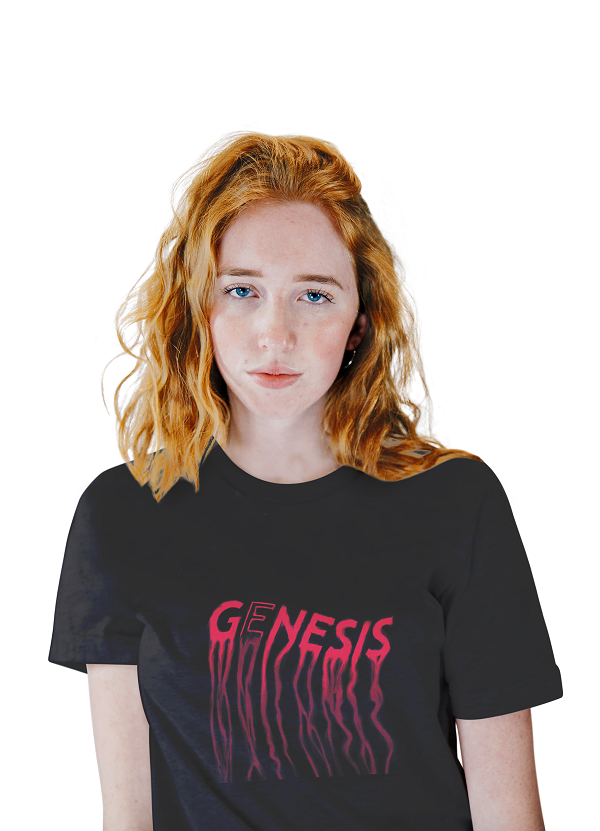
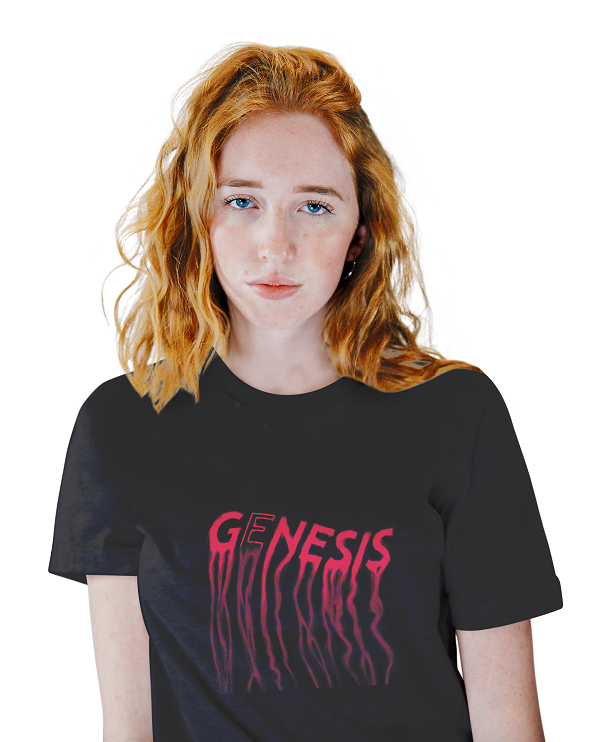
Reducción de espacios blancos de imágenes, hover y zoom en click. Estilo de botones.

diff --git a/html/productos.html b/html/productos.html
@@ -67,7 +67,12 @@
     <main>
         <div class="products">
             <div class="product-item">
-                <img src="../imagen/t-shirt-model-01.png" alt="top-newarrivals" >
+                <div class="top-newarrivals">
+                    <img src="../imagen/t-shirt-model-01.png" alt="top-newarrivals" >
+                    <div class="overlay">
+                        <div class="text">Click para hacer zoom</div>
+                    </div>
+                </div>
                 <div>
                     <span>T-SHIRT GENESIS</span>
                     <select>
@@ -85,7 +90,12 @@
                 </div>
             </div>
             <div class="product-item">
-                <img src="../imagen/t-shirt-model-02.png" alt="top-newarrivals" >
+                <div class="top-newarrivals">
+                    <img src="../imagen/t-shirt-model-02.png" alt="top-newarrivals" >
+                    <div class="overlay">
+                        <div class="text">Click para hacer zoom</div>
+                    </div>
+                </div>
                 <div>
                     <span>T-SHIRT KALE</span>
                     <select>
@@ -103,7 +113,12 @@
                 </div>
             </div>
             <div class="product-item">
-                <img src="../imagen/t-shirt-model-03.png" alt="top-newarrivals" >
+                <div class="top-newarrivals">
+                    <img src="../imagen/t-shirt-model-03.png" alt="top-newarrivals" >
+                    <div class="overlay">
+                        <div class="text">Click para hacer zoom</div>
+                    </div>
+                </div>
                 <div>
                     <span>T-SHIRT MAGNUM</span>
                     <select>
@@ -121,7 +136,12 @@
                 </div>
             </div>
             <div class="product-item">
-                <img src="../imagen/t-shirt-model-04.png" alt="top-newarrivals" >
+                <div class="top-newarrivals">
+                    <img src="../imagen/t-shirt-model-04.png" alt="top-newarrivals" >
+                    <div class="overlay">
+                        <div class="text">Click para hacer zoom</div>
+                    </div>
+                </div>
                 <div>
                     <span>T-SHIRT TWO-SKULLS</span>
                     <select>

diff --git a/css/productos.css b/css/productos.css
@@ -17,14 +17,59 @@ main {
     padding-bottom: 40px;
 }
 
-.product-item div {
+.product-item div:not(.top-newarrivals) {
     padding-top: 5px;
     padding-bottom: 5px;
 }
 
-.product-item img {
+.product-item div.top-newarrivals {
+    position: relative;
+    overflow: hidden;
     width: 100%;
     max-width: 400px;
+    cursor: pointer;
+}
+
+.product-item img {
+    width: inherit;
+    max-width: inherit;
+    margin-bottom: -4px;
+}
+
+.product-item div.top-newarrivals:hover .overlay {
+    opacity: .5;
+}
+
+.product-item div.top-newarrivals:active .overlay {
+    opacity: 0;
+}
+
+.product-item div.top-newarrivals .overlay {
+    position: absolute;
+    top: 0;
+    bottom: 0;
+    left: 0;
+    right: 0;
+    height: 100%;
+    width: 100%;
+    opacity: 0;
+    transition: .5s ease;
+    background-color: black;
+}
+  
+.product-item div.top-newarrivals .text {
+    color: white;
+    font-size: 20px;
+    position: absolute;
+    top: 50%;
+    left: 50%;
+    transform: translate(-50%, -50%);
+    text-align: center;
+}
+
+.product-item div.top-newarrivals:active img {
+    transform: scale(2);
+    transform-origin: bottom;
 }
 
 .product-item input.buttonCarrito {
@@ -40,6 +85,7 @@ main {
 .product-item input.buttonCarrito:hover {
     background-color: rgb(184, 88, 88);
     color: whitesmoke;
+    box-shadow: 0 8px 12px 0 rgba(0,0,0,0.24),0 17px 50px 0 rgba(0,0,0,0.19)
 }
 
 .product-item input.buttonCantidad {
@@ -54,4 +100,10 @@ main {
     width: 55px;
     padding: 4px;
     border-radius: 4px;
+}
+
+@media only screen and (max-width:600px) {
+    .product-item div.top-newarrivals:hover .overlay {
+        opacity: 0;
+    }
 }

diff --git a/css/index.css b/css/index.css
@@ -15,7 +15,8 @@ body .body-wrapper {
 }
 
 .collection-new:hover {
-  opacity: 0.7;
+  opacity: 0.8;
+  filter: grayscale(80%);
 }
 
 #portada {
@@ -64,6 +65,7 @@ main a.collection-element img {
 .promo input:hover {
   background-color: rgb(51, 49, 49);
   color:whitesmoke;
+  box-shadow: 0 12px 15px 0 rgba(0,0,0,0.24),0 17px 50px 0 rgba(0,0,0,0.19)
 }
 
 main h2 {
@@ -94,8 +96,6 @@ main {
 main img {
   vertical-align: middle;
 }
-
-
 
 @media only screen and (max-width:600px) {
   main .collection {
